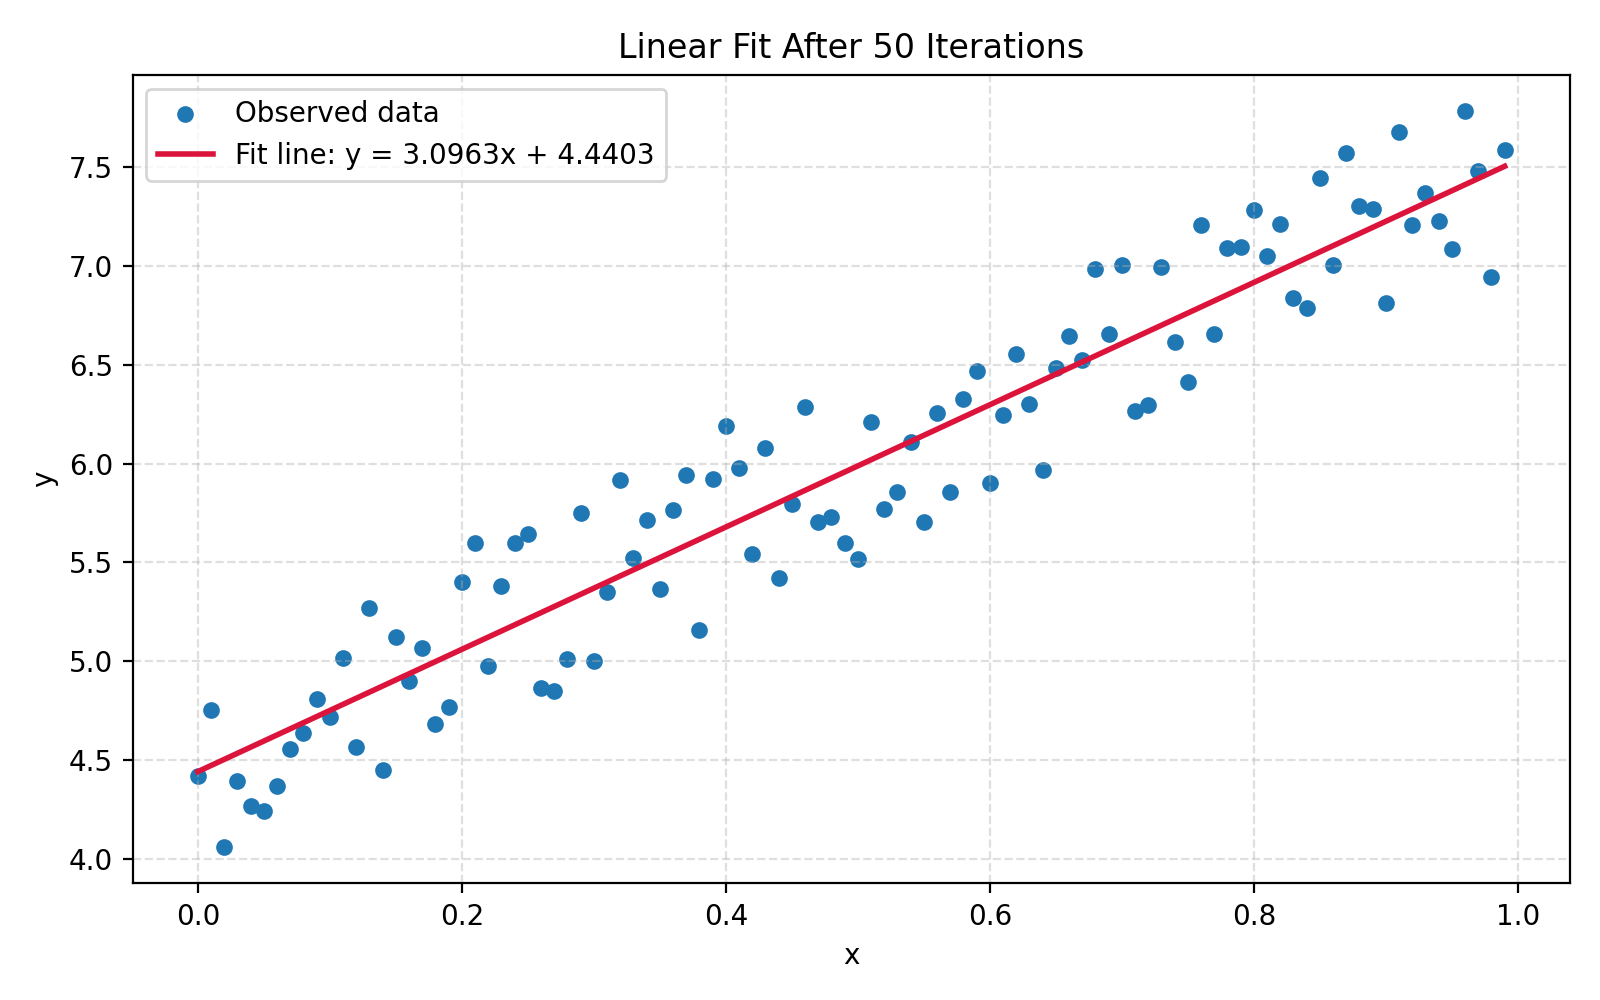
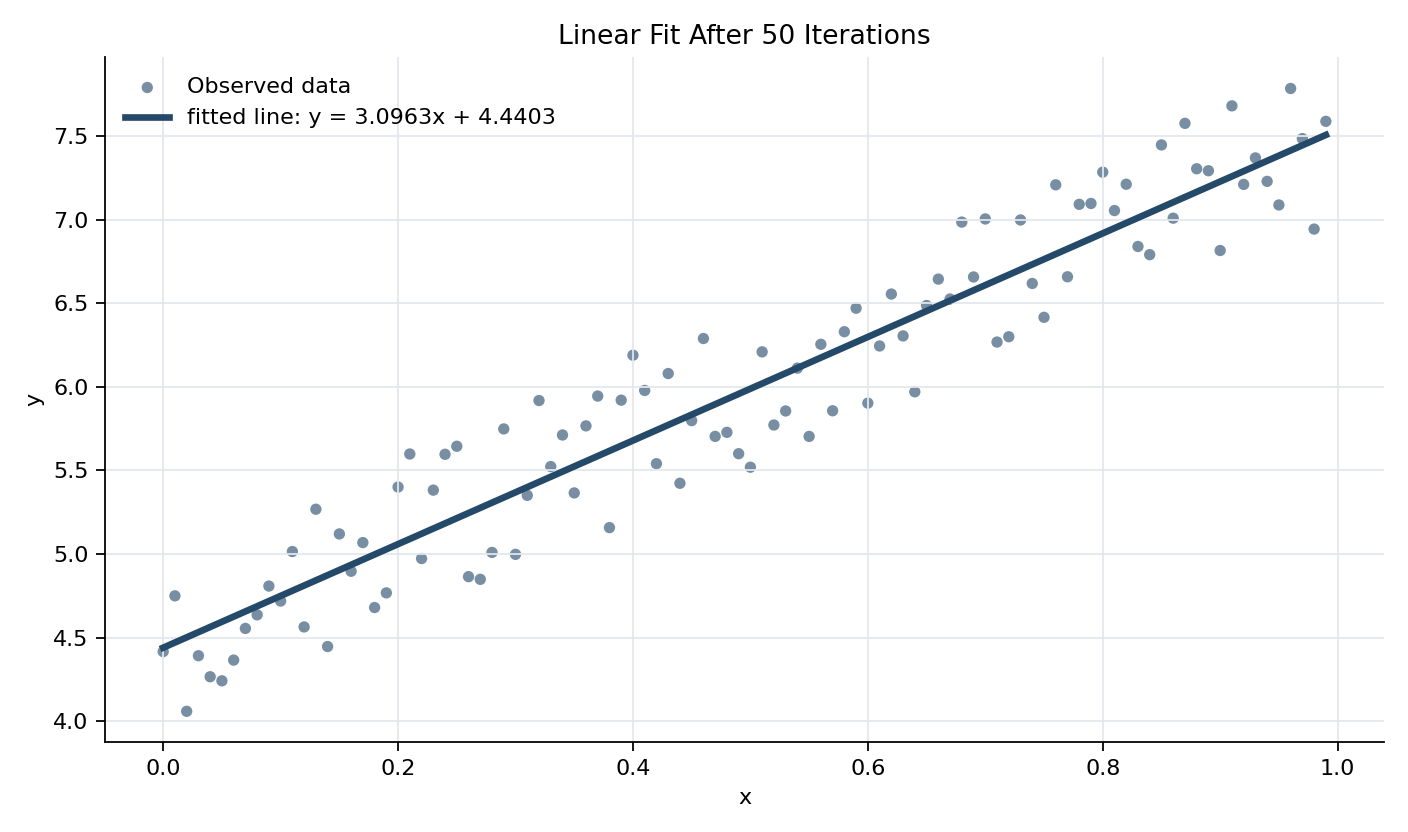
图片修改

diff --git a/python_version/fitlab_charts.py b/python_version/fitlab_charts.py
@@ -10,35 +10,72 @@ def plot_fit_line(base_dir: Path, x: np.ndarray, y: np.ndarray, w: float, b: flo
     # 在样本区间内均匀取点，得到平滑拟合直线。
     x_line = np.linspace(float(x.min()), float(x.max()), 200)
     y_line = w * x_line + b
+    obs_color = "#526F8A"
+    fit_color = "#244969"
+    grid_color = "#E3E7ED"
 
     # 图1：散点 + 拟合线，直观看拟合效果。
-    plt.figure(figsize=(8, 5))
-    plt.scatter(x, y, s=25, label="Observed data")
+    fig, ax = plt.subplots(figsize=(8.8, 5.2), dpi=160)
+    plt.scatter(
+        x,
+        y,
+        s=26,
+        color=obs_color,
+        edgecolors="none",
+        alpha=0.78,
+        label="Observed data",
+    )
     plt.plot(
         x_line,
         y_line,
-        color="crimson",
-        linewidth=2,
-        label=f"Fit line: y = {w:.4f}x + {b:.4f}",
+        color=fit_color,
+        linewidth=3.0,
+        label=f"fitted line: y = {w:.4f}x + {b:.4f}",
     )
-    plt.xlabel("x")
-    plt.ylabel("y")
-    plt.title("Linear Fit After 50 Iterations")
-    plt.legend()
-    plt.grid(True, linestyle="--", alpha=0.4)
-    plt.tight_layout()
-    plt.savefig(base_dir / "fit_line_after_50.png", dpi=200)
-    plt.close()
+    ax.set_xlabel("x")
+    ax.set_ylabel("y")
+    ax.set_title("Linear Fit After 50 Iterations", fontweight="normal")
+    ax.legend(frameon=False, loc="upper left")
+    ax.grid(True, color=grid_color, linewidth=0.8)
+    ax.spines["top"].set_visible(False)
+    ax.spines["right"].set_visible(False)
+    ax.tick_params(direction="out", length=4)
+    fig.tight_layout()
+    fig.savefig(base_dir / "fit_line_after_50.png")
+    plt.close(fig)
 
 
 def plot_loss_curve(base_dir: Path, history: np.ndarray) -> None:
     # 图2：loss 随迭代变化，判断是否单调下降、是否已趋于平稳。
-    plt.figure(figsize=(8, 5))
-    plt.plot(history[:, 0], history[:, 3], marker="o", markersize=3, linewidth=1.5)
-    plt.xlabel("Iteration")
-    plt.ylabel("Loss (MSE)")
-    plt.title("Loss Curve Over 50 Iterations")
-    plt.grid(True, linestyle="--", alpha=0.4)
-    plt.tight_layout()
-    plt.savefig(base_dir / "loss_curve_50.png", dpi=200)
-    plt.close()
+    loss_color = "#2A5C86"
+    grid_color = "#E3E7ED"
+    fig, ax = plt.subplots(figsize=(8.8, 5.2), dpi=160)
+    x_axis = history[:, 0]
+    loss = history[:, 3]
+    ax.plot(
+        x_axis,
+        loss,
+        linewidth=2.8,
+        color=loss_color,
+    )
+    # 每隔 5 个点打一次标记，既能看步进感，又不会显得拥挤。
+    ax.plot(
+        x_axis[::5],
+        loss[::5],
+        "o",
+        markersize=4.8,
+        markerfacecolor="white",
+        markeredgecolor=loss_color,
+        markeredgewidth=1.0,
+        linewidth=0,
+    )
+    ax.set_xlabel("Iteration")
+    ax.set_ylabel("Loss (MSE)")
+    ax.set_title("Loss Curve Over 50 Iterations", fontweight="normal")
+    ax.grid(True, color=grid_color, linewidth=0.8)
+    ax.spines["top"].set_visible(False)
+    ax.spines["right"].set_visible(False)
+    ax.tick_params(direction="out", length=4)
+    fig.tight_layout()
+    fig.savefig(base_dir / "loss_curve_50.png")
+    plt.close(fig)

diff --git a/matlab_version/fitlab_charts.m b/matlab_version/fitlab_charts.m
@@ -1,30 +1,86 @@
 function fitlab_charts(script_dir, x, y, w, b, history)
 %FITLAB_CHARTS 保存拟合直线图与 Loss 曲线图
 
+% 采用简洁、低饱和的配色：深蓝主色 + 中性灰辅助色。
+obs_color = [0.33, 0.45, 0.58];   % 数据点
+fit_color = [0.14, 0.29, 0.45];   % 拟合线
+loss_color = [0.16, 0.38, 0.56];  % 损失曲线
+grid_color = [0.88, 0.90, 0.93];
+txt_color = [0.18, 0.20, 0.24];
+
 % 图1：样本散点 + 最终拟合直线。
-fig1 = figure('Color', 'w');
-scatter(x, y, 25, 'filled');
+fig1 = figure('Color', 'w', 'Position', [120, 120, 920, 560]);
+scatter(x, y, 26, 'filled', ...
+    'MarkerFaceColor', obs_color, ...
+    'MarkerEdgeColor', 'none', ...
+    'MarkerFaceAlpha', 0.75);
 hold on;
 % 在样本区间生成更密集的 x，用来画平滑直线。
 x_line = linspace(min(x), max(x), 200)';
 y_line = w * x_line + b;
-plot(x_line, y_line, 'r-', 'LineWidth', 2);
+plot(x_line, y_line, '-', 'Color', fit_color, 'LineWidth', 3.0);
 xlabel('x');
 ylabel('y');
-title('Linear Fit After 50 Iterations');
-legend('Observed data', sprintf('Fit line: y = %.4fx + %.4f', w, b), 'Location', 'northwest');
+title('Linear Fit After 50 Iterations', 'FontWeight', 'normal');
+legend( ...
+    'Observed data', ...
+    sprintf('fitted line: y = %.4fx + %.4f', w, b), ...
+    'Location', 'northwest', ...
+    'Box', 'off');
+ax1 = gca;
+set(ax1, ...
+    'LineWidth', 1.1, ...
+    'FontName', 'Arial', ...
+    'FontSize', 11, ...
+    'Box', 'off', ...
+    'TickDir', 'out', ...
+    'XColor', txt_color, ...
+    'YColor', txt_color);
 grid on;
-saveas(fig1, fullfile(script_dir, 'fit_line_after_50.png'));
+ax1.GridAlpha = 0.55;
+ax1.GridColor = grid_color;
+ax1.Layer = 'top';
+try
+    exportgraphics(ax1, fullfile(script_dir, 'fit_line_after_50.png'), 'Resolution', 320);
+catch
+    saveas(fig1, fullfile(script_dir, 'fit_line_after_50.png'));
+end
 close(fig1);
 
 % 图2：loss 收敛曲线，观察优化过程是否稳定下降。
-fig2 = figure('Color', 'w');
-plot(history(:, 1), history(:, 4), '-o', 'LineWidth', 1.5, 'MarkerSize', 4);
+fig2 = figure('Color', 'w', 'Position', [140, 140, 920, 560]);
+iter = history(:, 1);
+loss = history(:, 4);
+plot(iter, loss, '-', ...
+    'Color', loss_color, ...
+    'LineWidth', 2.8);
+hold on;
+plot(iter(1:5:end), loss(1:5:end), 'o', ...
+    'MarkerSize', 5.5, ...
+    'MarkerFaceColor', [1 1 1], ...
+    'MarkerEdgeColor', loss_color, ...
+    'LineWidth', 1.1);
 xlabel('Iteration');
 ylabel('Loss (MSE)');
-title('Loss Curve Over 50 Iterations');
+title('Loss Curve Over 50 Iterations', 'FontWeight', 'normal');
+ax2 = gca;
+set(ax2, ...
+    'LineWidth', 1.1, ...
+    'FontName', 'Arial', ...
+    'FontSize', 11, ...
+    'Box', 'off', ...
+    'TickDir', 'out', ...
+    'XColor', txt_color, ...
+    'YColor', txt_color);
 grid on;
-saveas(fig2, fullfile(script_dir, 'loss_curve_50.png'));
+ax2.GridAlpha = 0.55;
+ax2.GridColor = grid_color;
+ax2.Layer = 'top';
+try
+    exportgraphics(ax2, fullfile(script_dir, 'loss_curve_50.png'), 'Resolution', 320);
+catch
+    saveas(fig2, fullfile(script_dir, 'loss_curve_50.png'));
+end
 close(fig2);
 
 end
